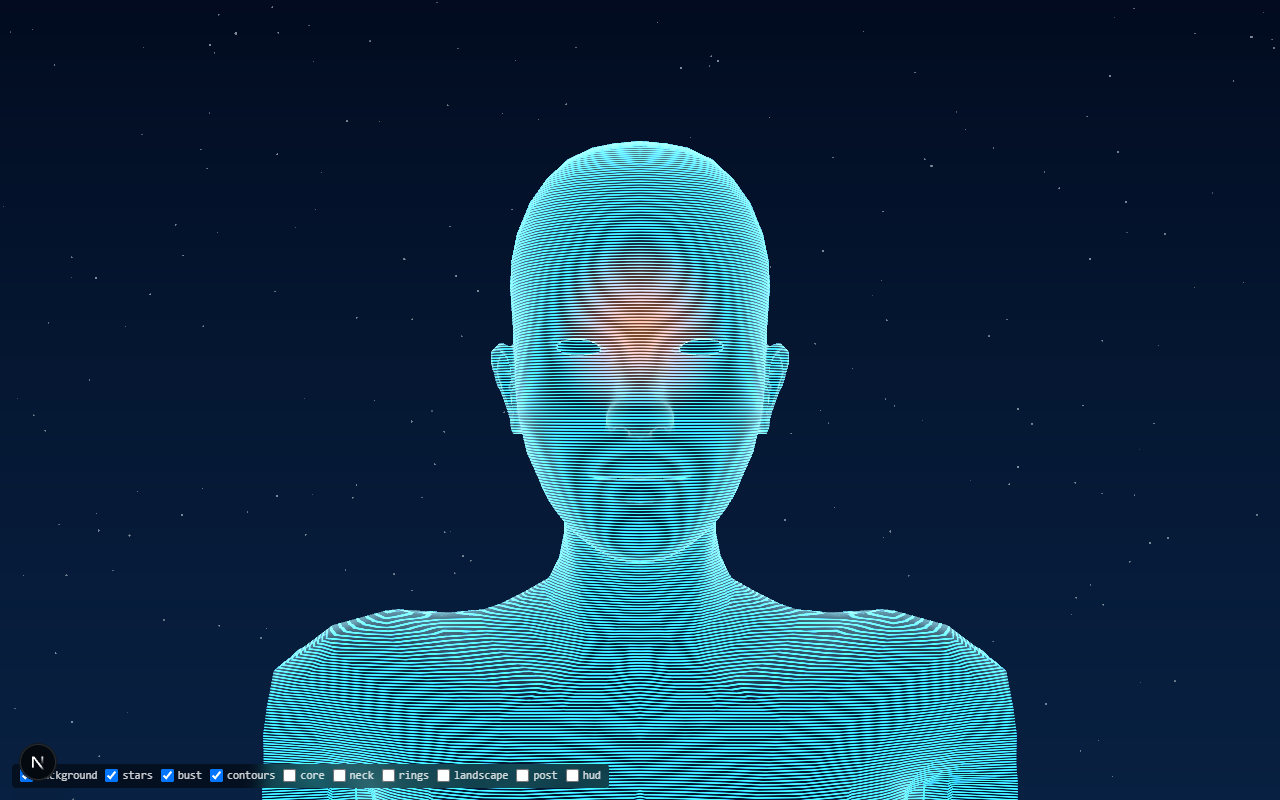
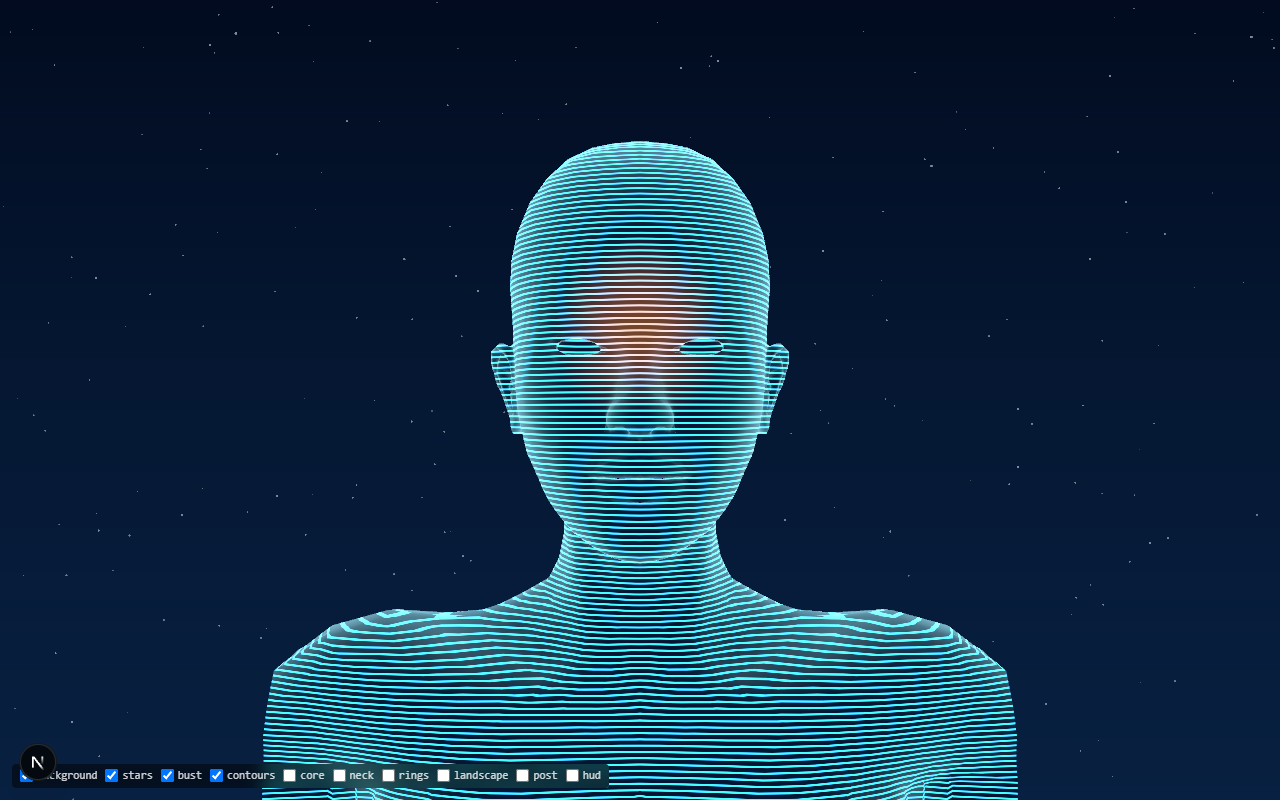
scene: phase 8 — post-processing and HUD
Effects: three RenderPipeline (the repo's TSL post pattern; the pmndrs
composer is WebGL-only): scene pass → BloomNode → vignette → output, rendered
from useFrame priority 1. Bloom keys are three-native (bloomStrength /
bloomRadius / bloomThreshold / bloomSmoothing / bloomResolutionScale) with
the pmndrs↔three mapping documented in sceneConfig; the vignette is pmndrs'
default technique in ascending-edge form, applied to colour only with alpha
pinned to 1 (a premultiplied canvas otherwise fades the corners to the page
colour). Hud: plain DOM top-right, 11 px mono, 0.18 em tracking, palette.line
at 75 %, 6 px dot pulsing 2 s via animate-pulse under motion-safe (no pulse
with prefers-reduced-motion). E2E asserts the HUD text.

Tuning to meet the Phase 8 acceptance (each plan original kept in a config
comment; alt screenshot at the plan values in
docs/screens/phase-8-alt-plan-values.png): contours.frequency 90 → 45 (0.7 px
lines bloomed into a solid cyan haze; 45 ≈ the reference's line count with
dark fill between), bloomStrength 0.43 → 0.25 and bloomThreshold 0.55 → 0.3
(three thresholds linear luminance: gold 0.54, rings ≤ 0.25 and the blue
landscape 0.13 never bloomed at 0.55). Phases 3-7 re-screenshotted with the
final config; the frequency-40 alt is superseded.

Verified: typecheck, lint, 27 unit tests, e2e 5/5 on a production build
(WebGPU), plus a WebGL2-fallback boot; 5 ms p50 frames on the RTX 5070.

Changed region(s): [[0.1875, 0.1562, 0.8125, 1.0]]

diff --git a/apps/web/src/scene/sceneConfig.ts b/apps/web/src/scene/sceneConfig.ts
@@ -141,10 +141,30 @@ export interface SceneConfig {
     seed: number;
   };
   post: {
-    bloomIntensity: number;
+    /** three BloomNode.strength — NOT pmndrs `intensity`: three sums five mip blurs with a
+     *  fixed weight total of 3.0 and adds linearly, so the plan's intensity 1.3 ≈ 0.43 */
+    bloomStrength: number;
+    /** BloomNode radius (0..1 mip re-weighting; pmndrs' radius is a different quantity) */
+    bloomRadius: number;
+    /** luminance threshold + smoothstep width — port 1:1 from the plan */
     bloomThreshold: number;
     bloomSmoothing: number;
+    /** bright-pass resolution: 1 thresholds per full-res pixel like pmndrs; three's default
+     *  0.5 box-averages the sub-pixel contour lines under the threshold (cheaper) */
+    bloomResolutionScale: number;
+    /** pmndrs Vignette offset / darkness */
+    vignetteOffset: number;
     vignetteDarkness: number;
+  };
+  /** Phase 8 DOM readout */
+  hud: {
+    text: string;
+    top: number;
+    right: number;
+    fontSize: number;
+    letterSpacing: string;
+    opacity: number;
+    dotSize: number;
   };
   /** Phase 1 starfield. Adapted from drei `<Stars radius depth count factor>`: stars are placed
    *  inside the camera's view cone (not a full sphere) so `count` is the number actually on
@@ -211,7 +231,10 @@ export const sceneConfig: SceneConfig = {
     chestSize: [2.0, 1.0, 1.0],
   },
 
-  contours: { frequency: 90, lineWidth: 0.1, fresnelPower: 2.5, scrollSpeed: 0.05 },
+  // plan: frequency 90. At this camera 90 slices/unit are 0.7 px lines that bloom into a solid
+  // cyan haze (docs/screens/phase-8-alt-plan-values.png); 45 matches the reference's ~45 lines
+  // on the head and keeps dark fill between them (Phase 3/8 acceptance).
+  contours: { frequency: 45, lineWidth: 0.1, fresnelPower: 2.5, scrollSpeed: 0.05 },
 
   // plan: [0, 1.5, 0.45] for the sphere head; the mesh's face (eyes y ≈ 1.35, mouth ≈ 1.08)
   // sits lower than a sphere's centre, so the glow is centred on it at y 1.3
@@ -268,7 +291,31 @@ export const sceneConfig: SceneConfig = {
     seed: 11,
   },
 
-  post: { bloomIntensity: 1.3, bloomThreshold: 0.55, bloomSmoothing: 0.3, vignetteDarkness: 0.7 },
+  // plan: bloomIntensity 1.3 (pmndrs ≈ strength 0.43 after ÷ 3.0 mip-weight total) and
+  // threshold 0.55. With three's linear-luminance bloom those numbers haze the whole bust while
+  // gold (0.54), rings (≤ 0.25) and the blue landscape (0.13) never cross the threshold; strength
+  // 0.25 / threshold 0.3 give the plan's "everything bright glows softly, fill and background do
+  // not" (alt at the plan values: docs/screens/phase-8-alt-plan-values.png). radius 0.8 mirrors
+  // pmndrs' coarse-heavy mipmap default.
+  post: {
+    bloomStrength: 0.25,
+    bloomRadius: 0.8,
+    bloomThreshold: 0.3,
+    bloomSmoothing: 0.3,
+    bloomResolutionScale: 1,
+    vignetteOffset: 0.3,
+    vignetteDarkness: 0.7,
+  },
+
+  hud: {
+    text: "STATUS: LISTENING",
+    top: 24,
+    right: 28,
+    fontSize: 11,
+    letterSpacing: "0.18em",
+    opacity: 0.75,
+    dotSize: 6,
+  },
 
   stars: { count: 400, radius: 60, depth: 20, size: 0.08, opacity: 0.3, aspect: 2.2, seed: 2026 },
 };

diff --git a/apps/web/src/scene/Effects.tsx b/apps/web/src/scene/Effects.tsx
@@ -1,6 +1,55 @@
 "use client";
+import { useFrame, useThree } from "@react-three/fiber";
+import { useEffect, useMemo } from "react";
+import { bloom } from "three/addons/tsl/display/BloomNode.js";
+import { float, length, oneMinus, pass, screenUV, smoothstep, vec4 } from "three/tsl";
+import { RenderPipeline, type WebGPURenderer } from "three/webgpu";
+import { sceneConfig } from "./sceneConfig";
 
-/** Phase 8 — bloom + vignette post pass (stub: no post yet, R3F renders the scene directly). */
+/**
+ * Phase 8 — post-processing (docs/plans/scene-plan.md Phase 8): bloom + vignette, nothing else.
+ * The @react-three/postprocessing composer is WebGL-only, so this is three's own RenderPipeline
+ * (the pattern of avatar/post/pipeline.ts): scene pass → BloomNode → vignette → output.
+ *
+ * Semantics that differ from pmndrs and are mapped in sceneConfig.post:
+ * - `bloomStrength` is three's BloomNode.strength (five mip blurs summed with a fixed weight
+ *   total of 3.0, then added linearly), not pmndrs `intensity` (normalised chain, screen blend):
+ *   the plan's 1.3 ≈ strength 0.43 as the energy-equivalent start.
+ * - `bloomThreshold`/`bloomSmoothing` port 1:1 (smoothstep(threshold, threshold + width) on
+ *   linear luminance). `bloomResolutionScale` 1 thresholds per full-resolution pixel like
+ *   pmndrs (three's default 0.5 box-averages the sub-pixel contour lines under the threshold).
+ * - Vignette is pmndrs' default technique in ascending-edge form; it multiplies colour only and
+ *   pins alpha to 1, otherwise a premultiplied canvas fades the corners to the page colour.
+ * The scene pass renders linear (tone mapping is off: `flat` on the Canvas), and bloom reads
+ * those values before the sRGB output transform, so `toneMapped` flags are not needed.
+ */
 export function Effects() {
+  const gl = useThree((s) => s.gl) as unknown as WebGPURenderer;
+  const scene = useThree((s) => s.scene);
+  const camera = useThree((s) => s.camera);
+  const pipeline = useMemo(() => {
+    const { post } = sceneConfig;
+    const pipe = new RenderPipeline(gl);
+    const scenePass = pass(scene, camera);
+    const color = scenePass.getTextureNode("output");
+    const bloomNode = bloom(color, post.bloomStrength, post.bloomRadius, post.bloomThreshold);
+    bloomNode.smoothWidth.value = post.bloomSmoothing;
+    bloomNode.setResolutionScale(post.bloomResolutionScale);
+    type ColorNode = ReturnType<(typeof color)["add"]>;
+    const out = (color as unknown as ColorNode).add(bloomNode);
+    const d = float(length(screenUV.sub(0.5)));
+    const vig = oneMinus(
+      smoothstep(
+        post.vignetteOffset * 0.799,
+        0.8,
+        d.mul(post.vignetteDarkness + post.vignetteOffset),
+      ),
+    );
+    pipe.outputNode = vec4(out.rgb.mul(vig), 1);
+    return pipe;
+  }, [gl, scene, camera]);
+  useEffect(() => () => pipeline.dispose(), [pipeline]);
+  // priority 1: R3F stops auto-rendering; the pipeline draws the frame
+  useFrame(() => pipeline.render(), 1);
   return null;
 }

diff --git a/apps/web/src/scene/Hud.tsx b/apps/web/src/scene/Hud.tsx
@@ -1,6 +1,33 @@
 "use client";
+import { sceneConfig } from "./sceneConfig";
 
-/** Phase 8 — "STATUS: LISTENING" DOM readout, outside the Canvas (stub: renders nothing yet). */
+/**
+ * Phase 8 — the "STATUS: LISTENING" readout (docs/plans/scene-plan.md Phase 8): plain DOM,
+ * absolutely positioned top-right inside the canvas container, pointer-events off, monospace
+ * 11 px with 0.18 em tracking in `palette.line` at 75 %, preceded by a 6 px dot with a slow
+ * 2 s opacity pulse (Tailwind `animate-pulse`, disabled under prefers-reduced-motion).
+ */
 export function Hud() {
-  return null;
+  const { hud, palette } = sceneConfig;
+  return (
+    <div
+      data-scene-hud
+      className="pointer-events-none absolute flex select-none items-center gap-2 font-mono uppercase"
+      style={{
+        top: hud.top,
+        right: hud.right,
+        fontSize: hud.fontSize,
+        letterSpacing: hud.letterSpacing,
+        color: palette.line,
+        opacity: hud.opacity,
+      }}
+    >
+      <span
+        aria-hidden
+        className="inline-block rounded-full motion-safe:animate-pulse"
+        style={{ width: hud.dotSize, height: hud.dotSize, background: palette.line }}
+      />
+      {hud.text}
+    </div>
+  );
 }

diff --git a/apps/web/tests/e2e/scene-smoke.spec.ts b/apps/web/tests/e2e/scene-smoke.spec.ts
@@ -8,6 +8,8 @@ test("scene bench page boots on WebGPU or WebGL and keeps rendering", async ({ p
   await page.waitForTimeout(2000);
   const later = await page.evaluate(() => window.__twinScene);
   expect((later?.frames ?? 0) - (first?.frames ?? 0)).toBeGreaterThan(10);
+  // HUD chrome (Phase 8) is plain DOM beside the canvas
+  await expect(page.locator("[data-scene-hud]")).toHaveText(/status: listening/i);
 });
 
 test("layers can be switched from the query string", async ({ page }) => {
